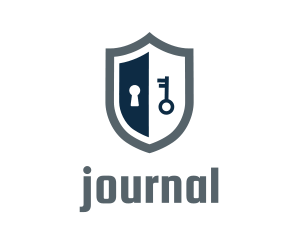
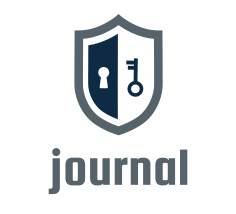
adjust margins and image

Changed region(s): [[0.2966, 0.0561, 0.7119, 0.6449], [0.2076, 0.6729, 0.8008, 0.9252]]

diff --git a/styles/main.css b/styles/main.css
@@ -14,12 +14,18 @@ header {
   background-color: var(--dark-background);
 }
 
+header img {
+  width: 10rem;
+  margin: 5px;
+}
+
 main {
   padding: 5px;
 }
 
 .current-entry {
   background-color: var(--light-background);
+  margin: 6px;
 }
 
 fieldset {
@@ -33,6 +39,9 @@ fieldset {
 .past-entry {
   background-color: var(--dark-background);
   margin: 5px;
+  padding: 0 20px;
+  border: solid black 2px;
+
 }
 
 footer {
